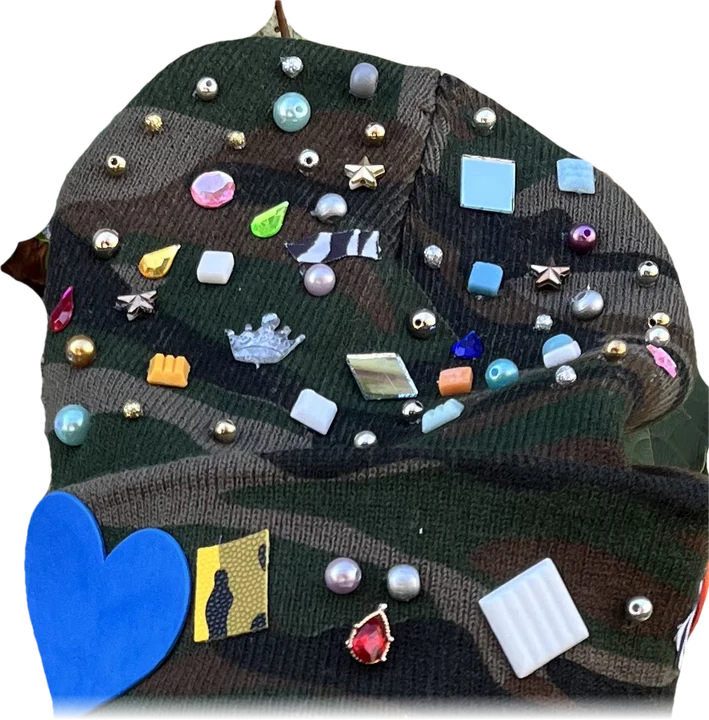
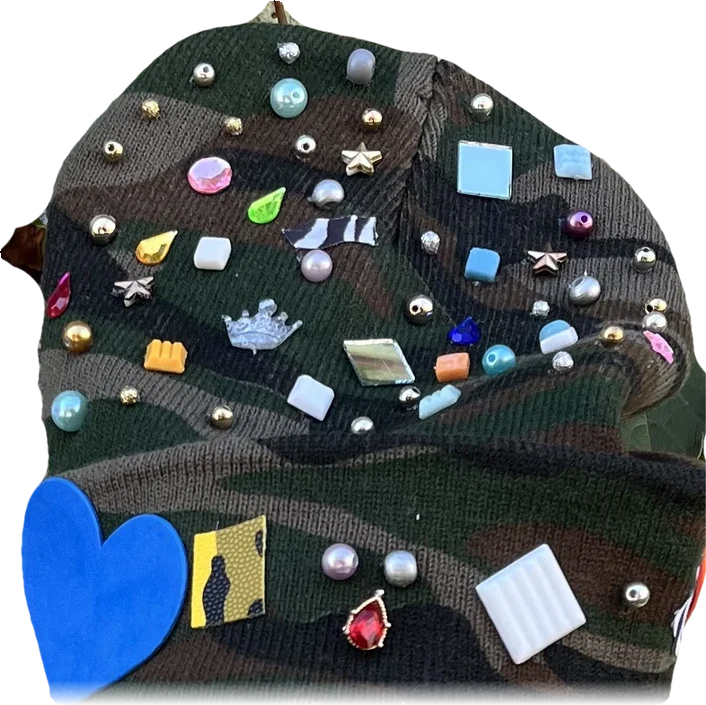
Remove duplicate H-17; trim stem so H-14 hangs from its hook
Claude-Session: https://claude.ai/code/session_01QNdbuuninaoyHG1bQHaLkU

diff --git a/data.js b/data.js
@@ -137,7 +137,7 @@ window.WORKS = [
   "id": "H-17",
   "kind": "hat",
   "type": "Hat",
-  "status": "Available",
+  "status": "Exclude", "note": "Duplicate of H-01 (same red Jesus hat), removed 2026-10-31",
   "title": "Red beanie",
   "medium": "",
   "size": "",
